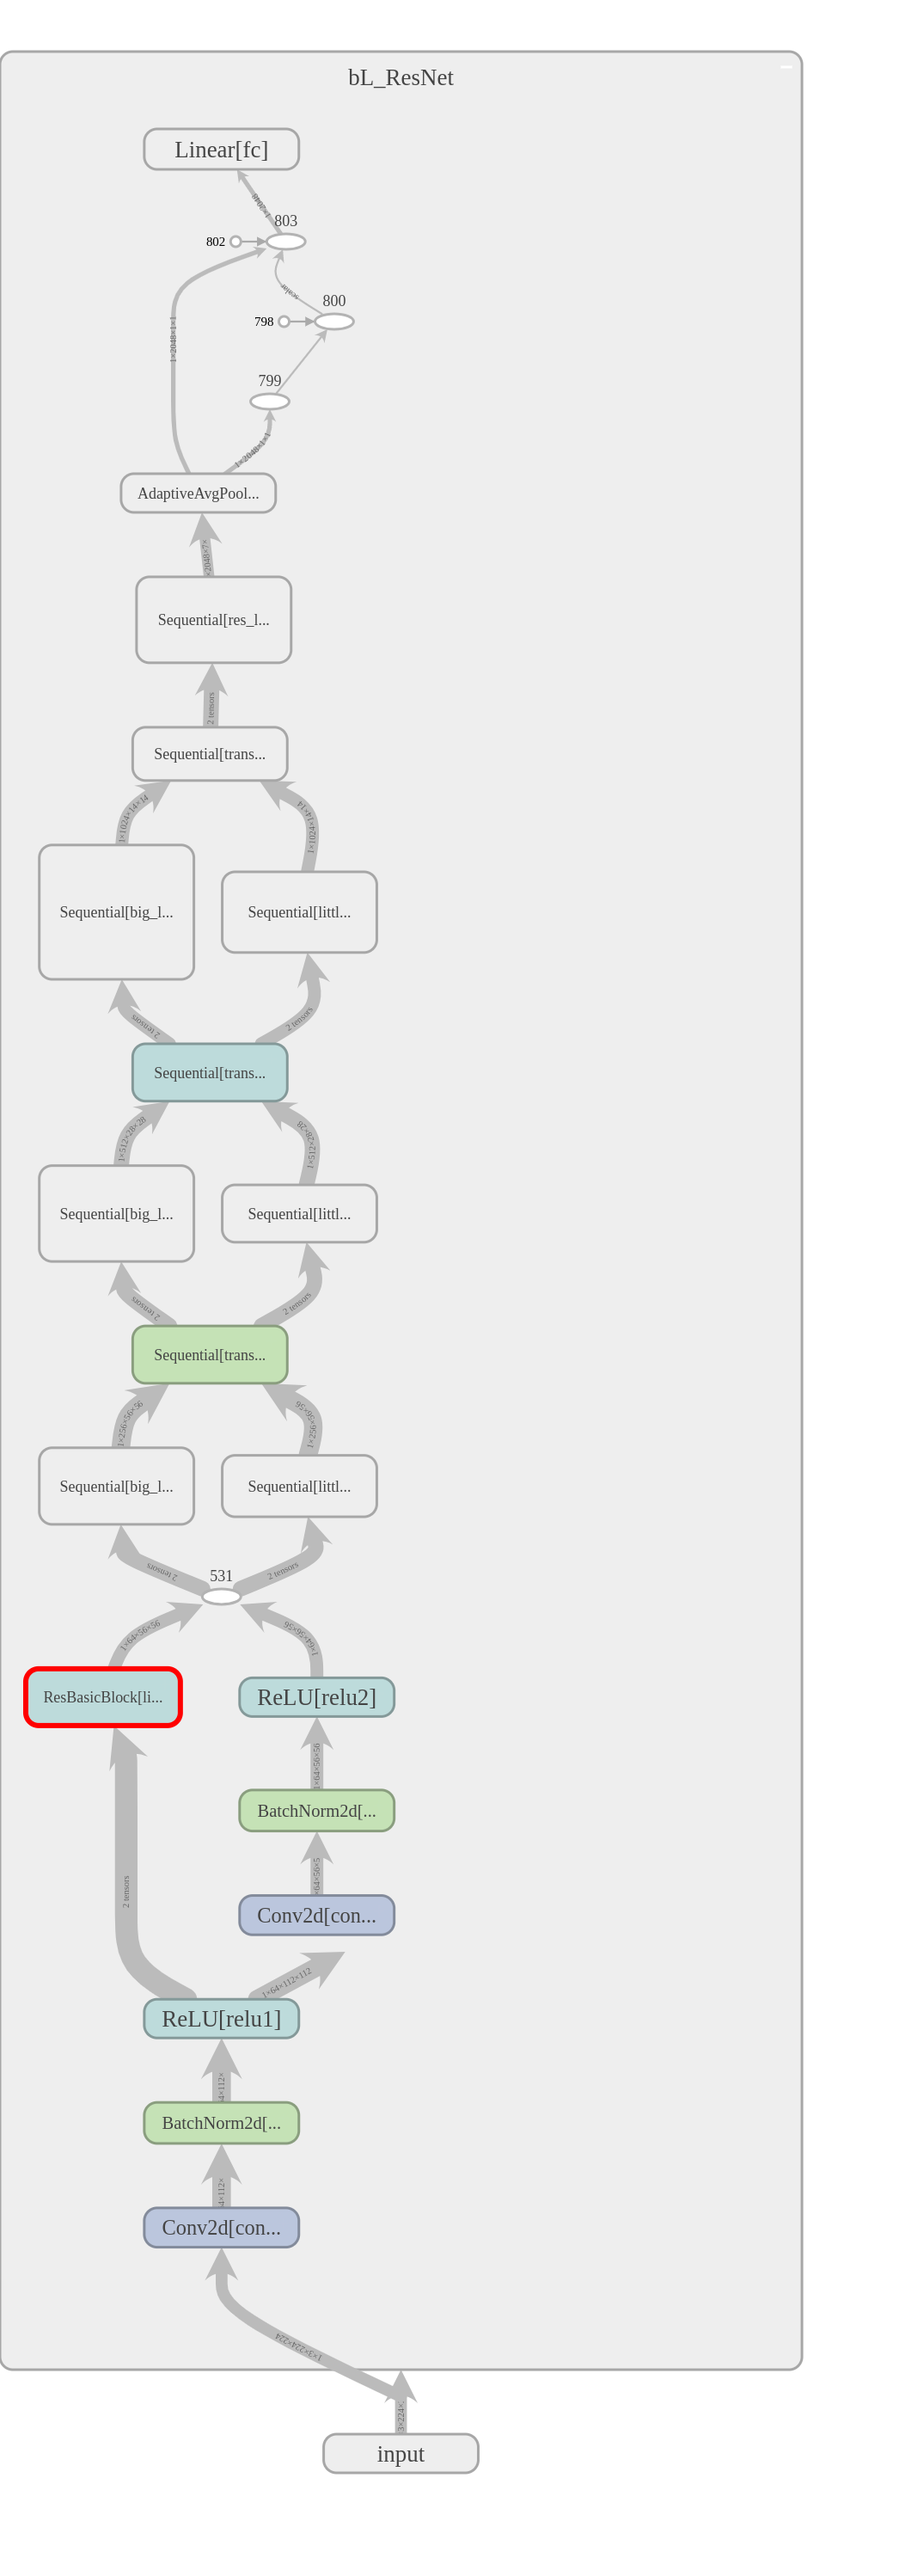
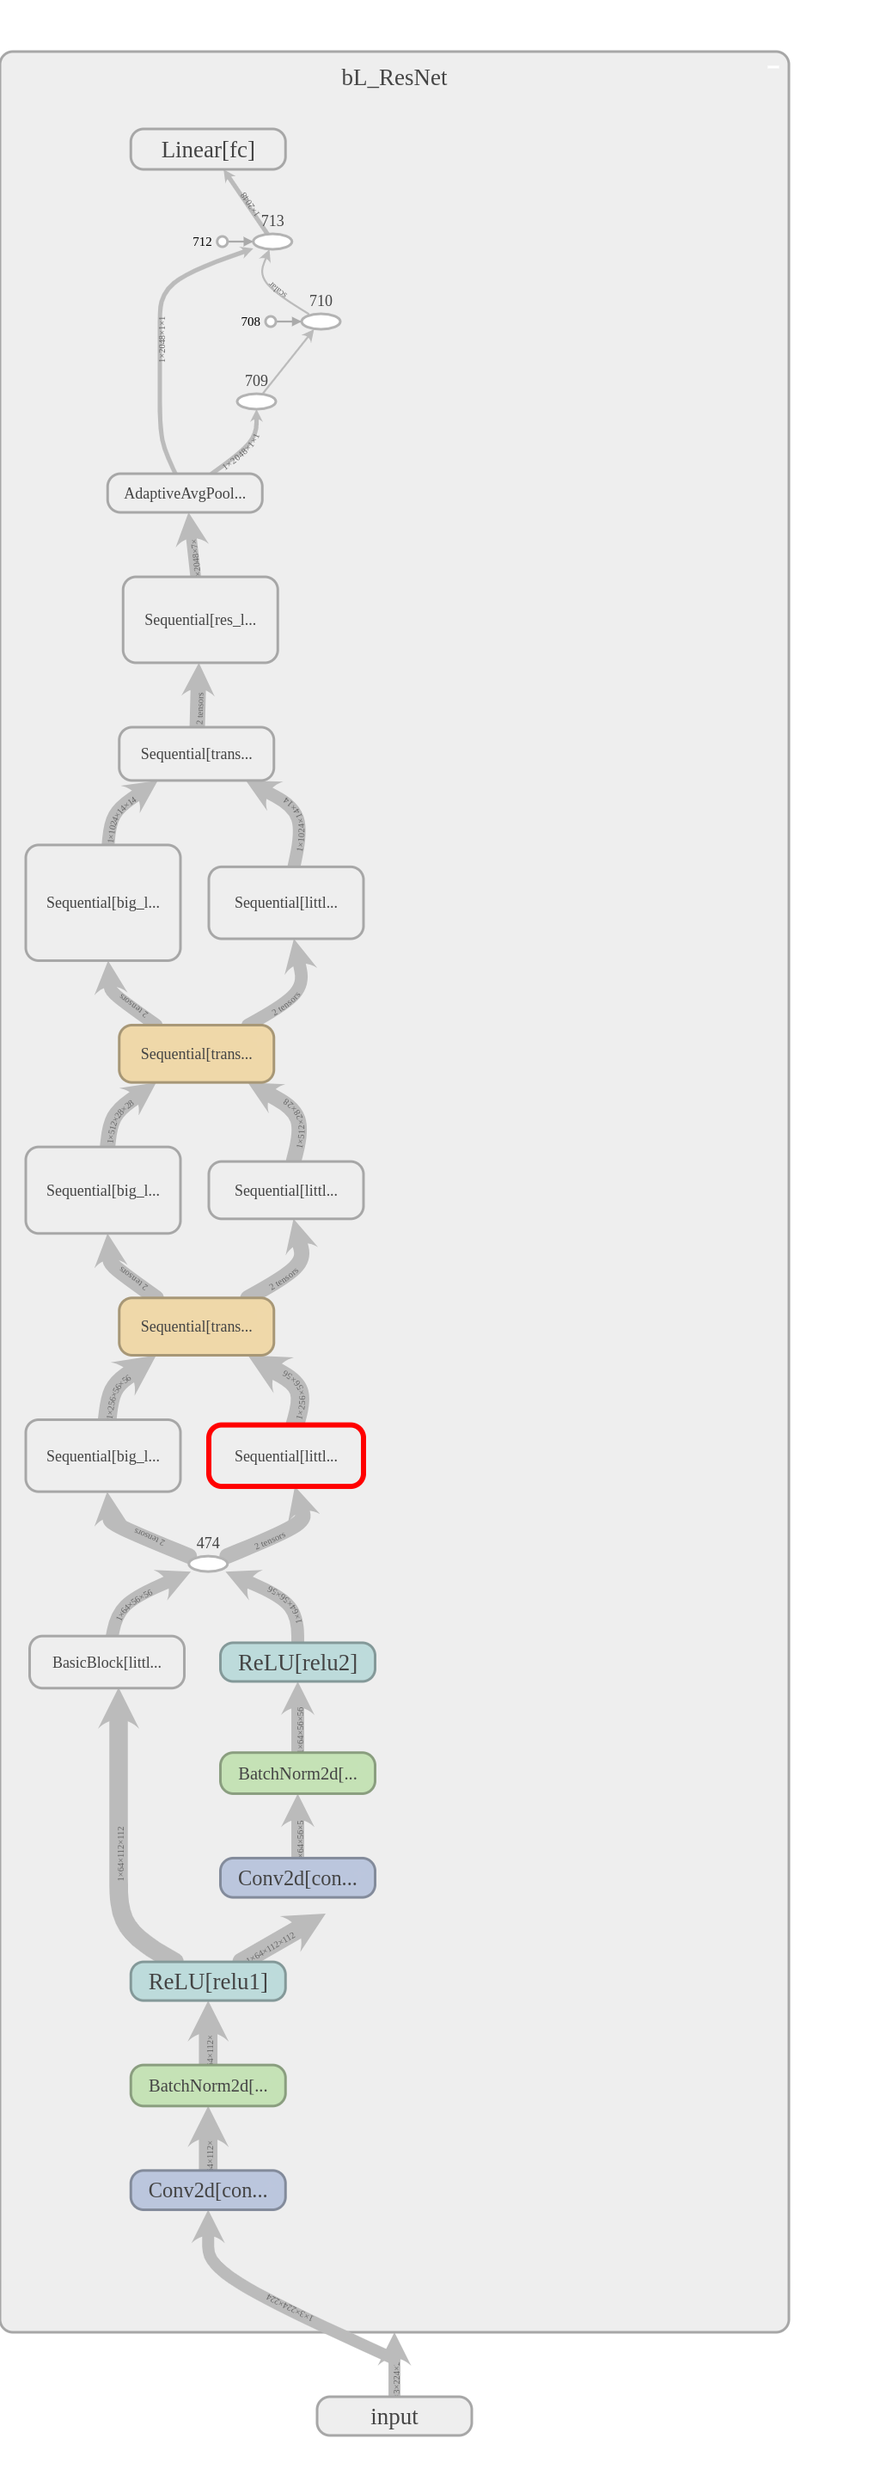
updated png and Readme

diff --git a/README.md b/README.md
@@ -46,12 +46,12 @@ _Setback_: The application approach needed the users to be informed of all the c
 
 **18-21th March 2019** - Waiting for GPU access.
 
+**22th March 2019** - Correct the implementation by having upsampling at the end of the branches itself.
+
 
 ## Plan
 
-**22th March 2019** - Correct the implementation by having upsampling at the end of the branches itself.
-
-**xxth March 2019** - Try running on GPUs. Reproduce the results for `bL-ResNet50`.
+**24th March 2019** - Try running on GPUs. Reproduce the results for `bL-ResNet50`.
 
 
 ## Requirements
